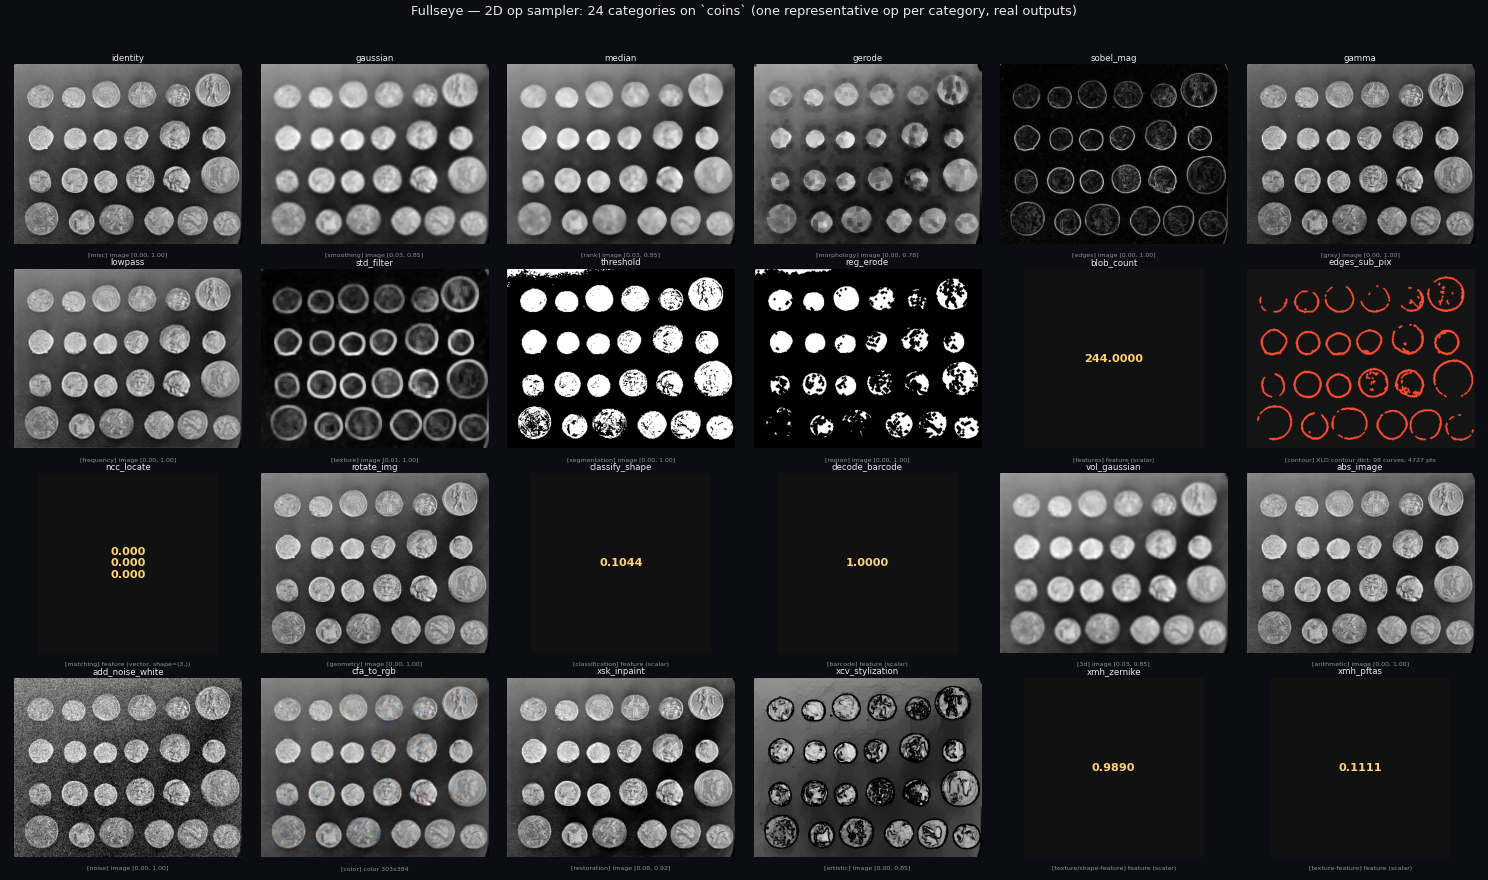
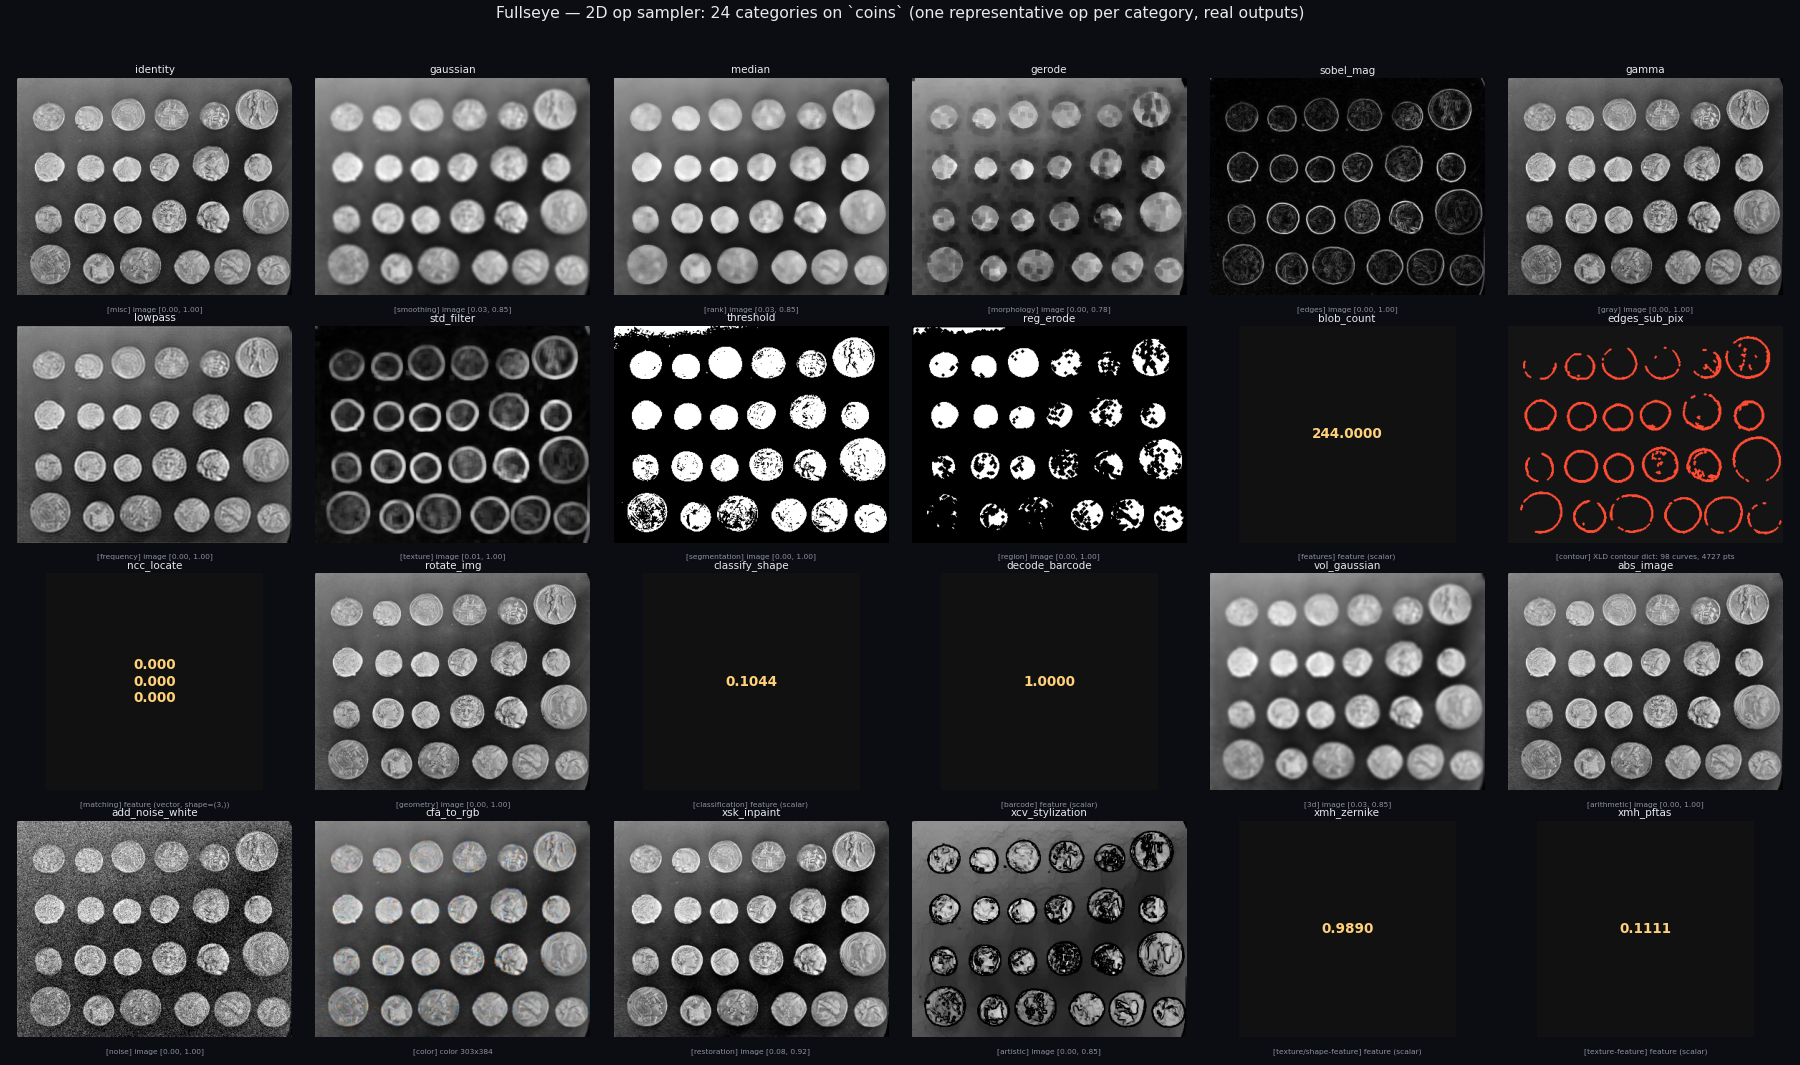
auto: gen_article_assets.py 編集前 (2026-08-30 16:12)

diff --git a/tools/gen_article_assets.py b/tools/gen_article_assets.py
@@ -985,7 +985,7 @@ def build_op_sampler_2d(log=print) -> dict:
                  f"(one representative op per category, real outputs)", color=fg, fontsize=15, y=0.995)
     fig.tight_layout(rect=(0, 0, 1, 0.965))
     out_path = os.path.join(ASSETS_DIR, "op_sampler_2d.png")
-    fig.savefig(out_path, dpi=62, facecolor=bg)
+    fig.savefig(out_path, dpi=75, facecolor=bg)
     plt.close(fig)
     log(f"op_sampler_2d: {out_path} | {len(chosen)} tiles: "
         + ", ".join(f"{cat}:{name}" for cat, name, _ in chosen))
